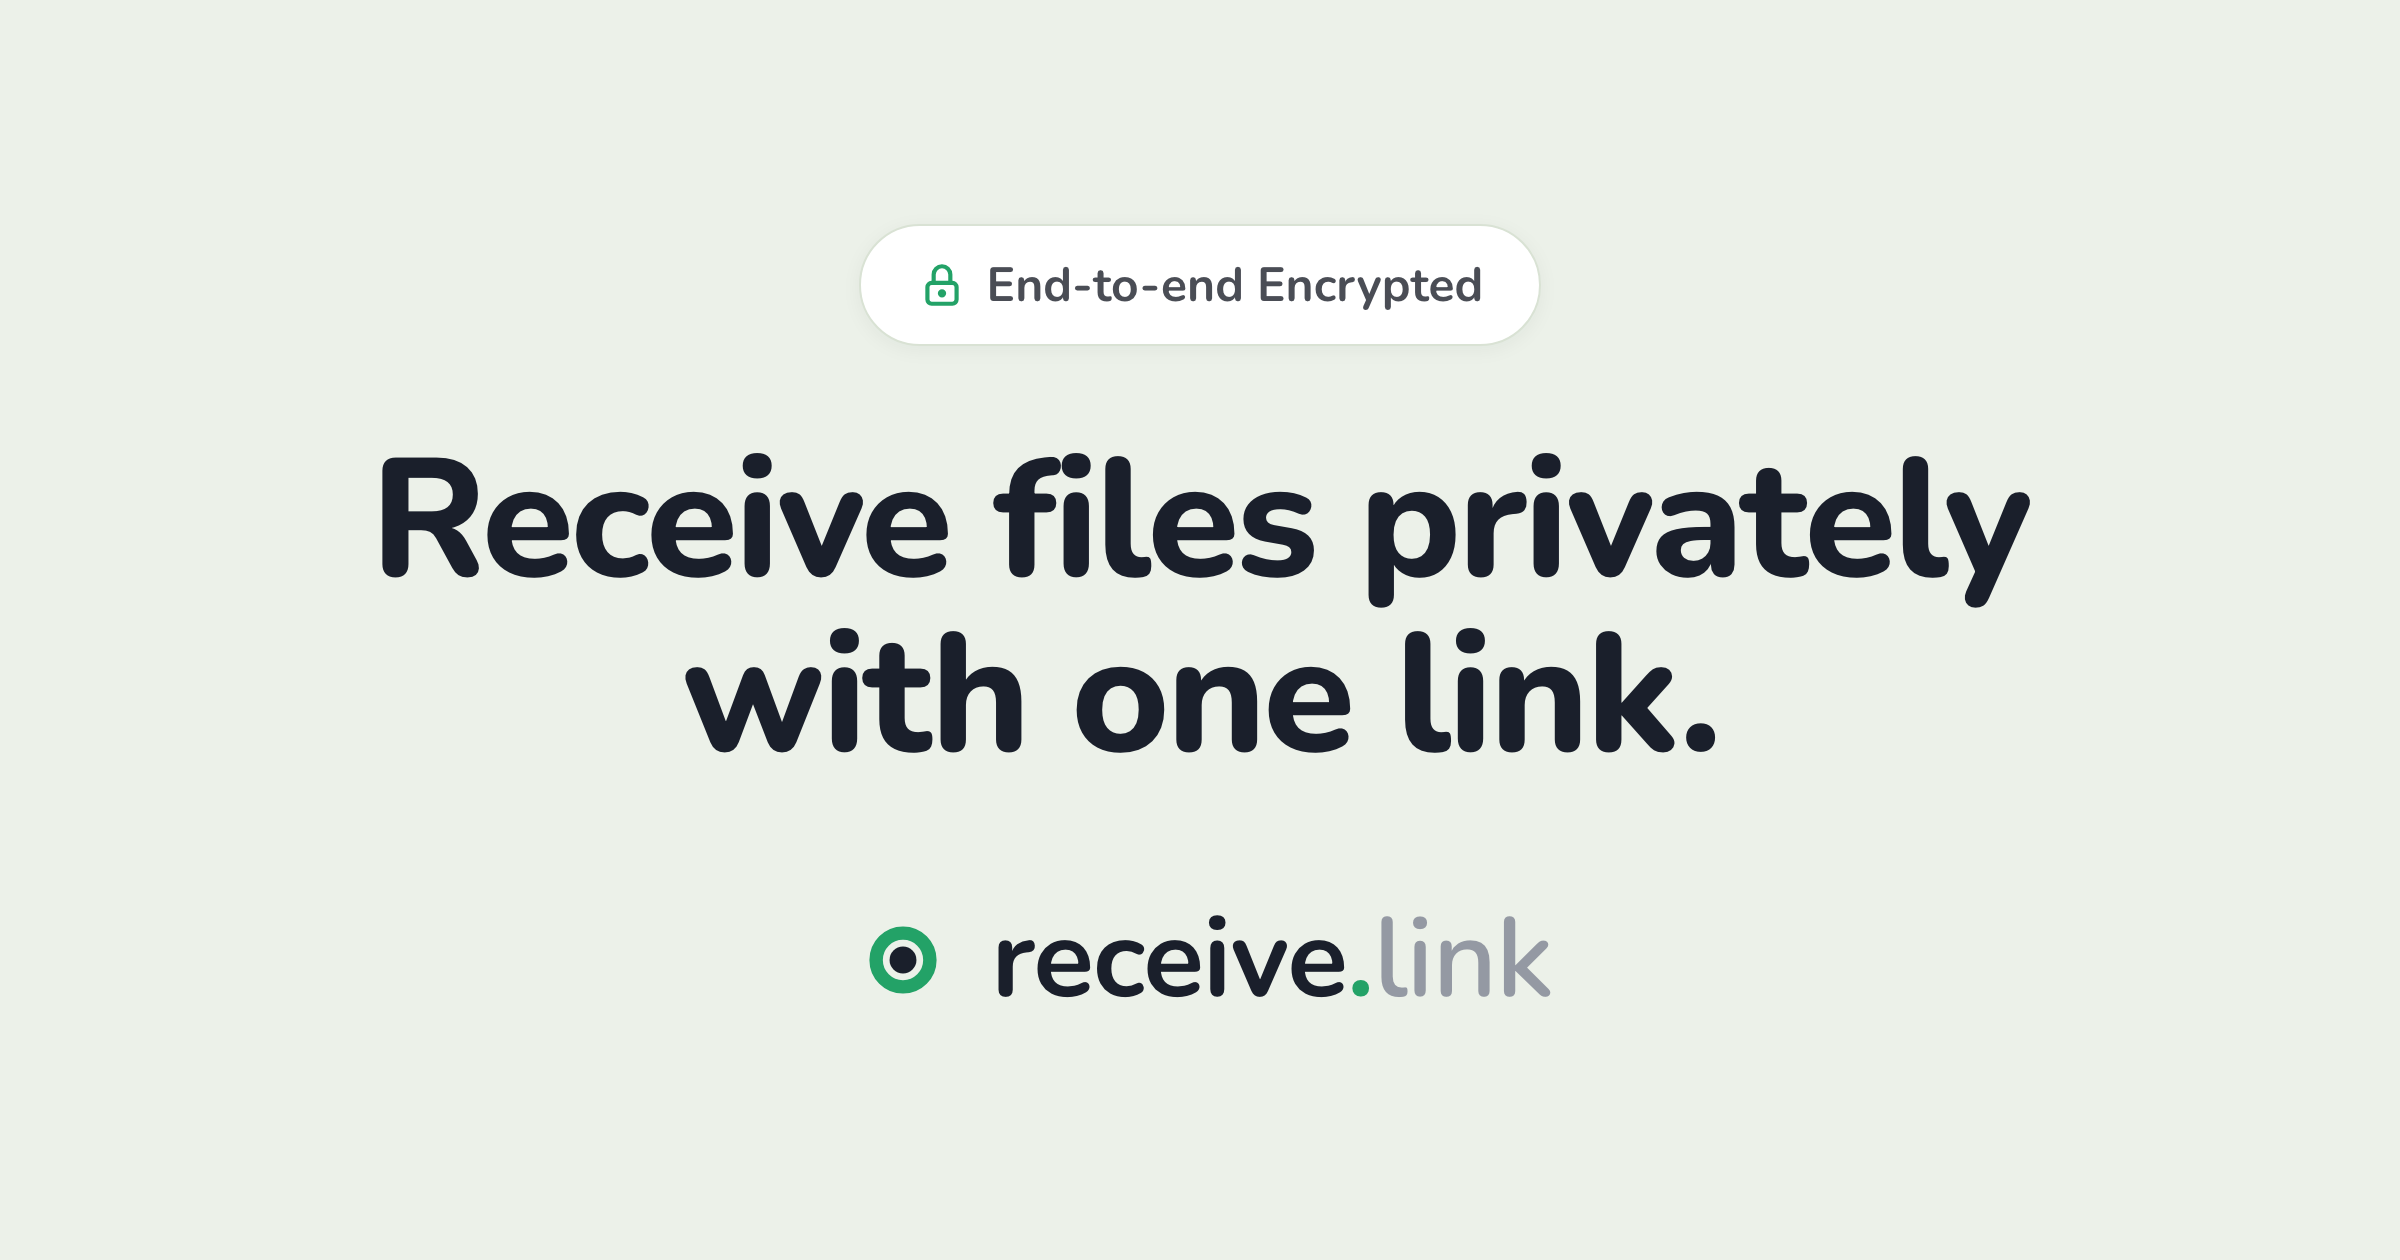
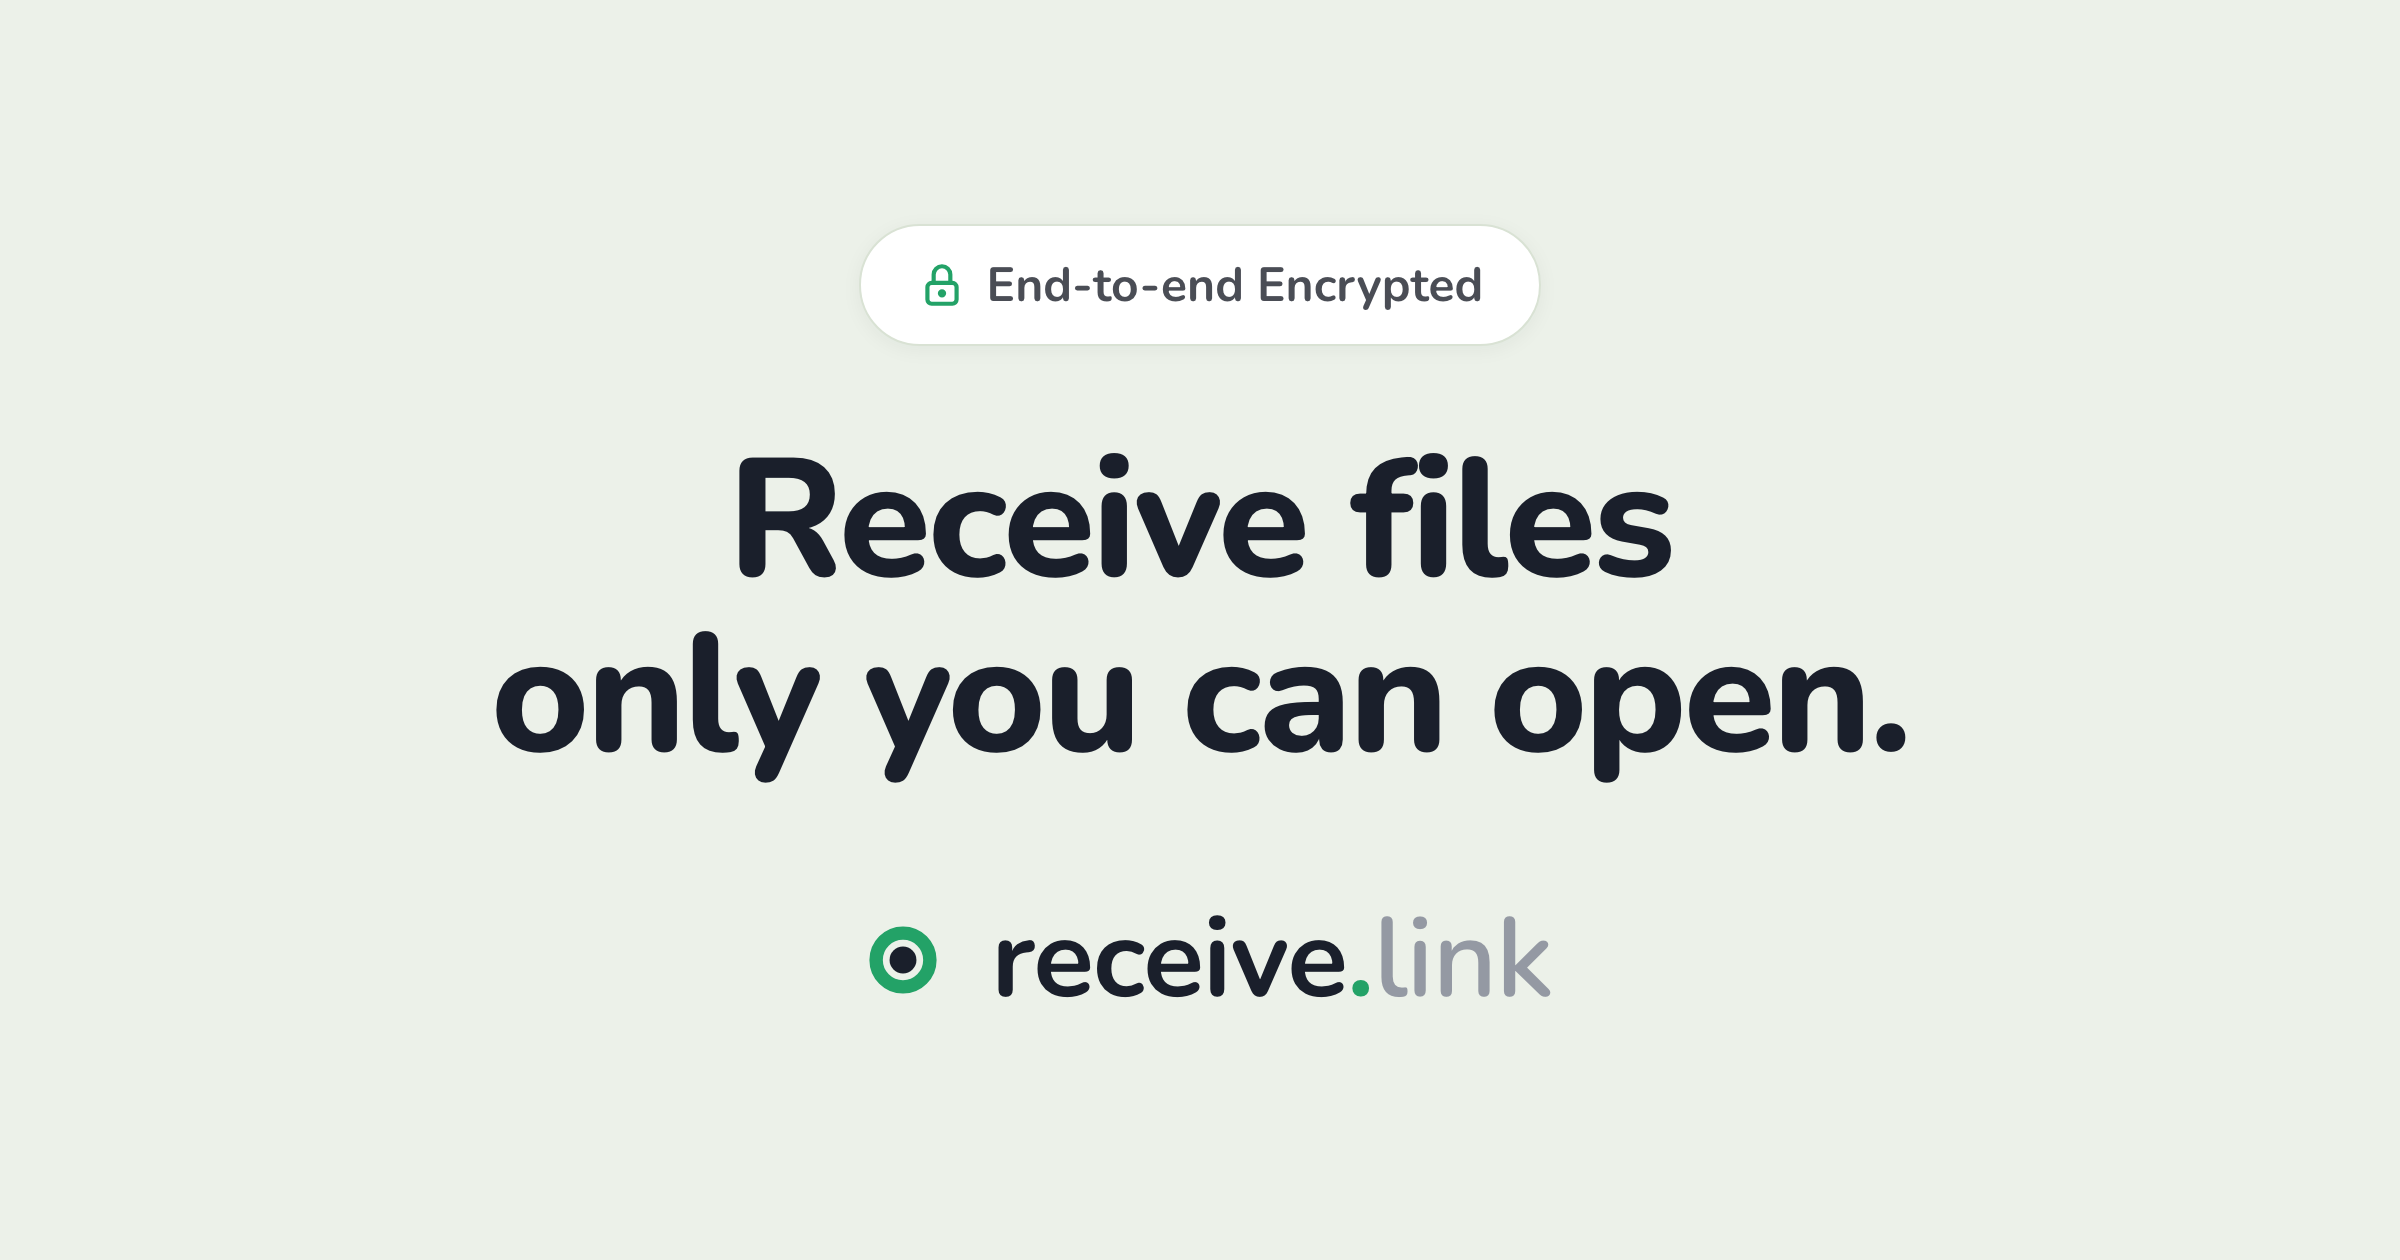
feat(home): headline "Receive files only you can open." + matching og card
The hero and the homepage share-card image now both carry the og:title line
(the metas already said it). og-card-send.html / og-send.png (the sender-
facing share-link card) untouched.

Changed region(s): [[0.1562, 0.3405, 0.8438, 0.619]]

diff --git a/web/home/index.html b/web/home/index.html
@@ -276,7 +276,7 @@ body.cmlock{overflow:hidden}
 
   <div class="hero">
     <div class="kicks"><span class="kick"><svg class="ti" viewBox="0 0 24 24" fill="none" stroke="currentColor" stroke-width="2" stroke-linecap="round" stroke-linejoin="round" aria-hidden="true"><path d="M5 13a2 2 0 0 1 2 -2h10a2 2 0 0 1 2 2v6a2 2 0 0 1 -2 2h-10a2 2 0 0 1 -2 -2v-6z" /> <path d="M11 16a1 1 0 1 0 2 0a1 1 0 0 0 -2 0" /> <path d="M8 11v-4a4 4 0 1 1 8 0v4" /></svg>End-to-end Encrypted</span></div>
-    <h1>Receive files privately<br>with one link.</h1>
+    <h1>Receive files<br>only you can open.</h1>
     <div class="sub">Anyone can send you files. Only you can open them. Encrypted to your passkey, no accounts.</div>
     <div class="hcta"><a class="pill" href="/" data-create>Create your link</a></div>
   </div>

diff --git a/web/og-card-v2.html b/web/og-card-v2.html
@@ -26,7 +26,7 @@ h1{font-family:'Nunito',system-ui,sans-serif;font-weight:800;font-size:84px;line
 <body>
   <div class="stack">
     <span class="pill"><svg viewBox="0 0 24 24" fill="none" stroke="currentColor" stroke-width="2" stroke-linecap="round" stroke-linejoin="round"><path d="M5 13a2 2 0 0 1 2 -2h10a2 2 0 0 1 2 2v6a2 2 0 0 1 -2 2h-10a2 2 0 0 1 -2 -2v-6z"/><path d="M11 16a1 1 0 1 0 2 0a1 1 0 0 0 -2 0"/><path d="M8 11v-4a4 4 0 1 1 8 0v4"/></svg>End-to-end Encrypted</span>
-    <h1>Receive files privately<br>with one link.</h1>
+    <h1>Receive files<br>only you can open.</h1>
     <div class="logo"><svg viewBox="0 0 100 100"><circle cx="50" cy="50" r="24" fill="none" stroke="#23A267" stroke-width="12"/><circle cx="50" cy="50" r="12" fill="#1A1F2B"/></svg><span>receive<span class="dotp">.</span><span class="tld">link</span></span></div>
   </div>
   <script>(async()=>{try{await document.fonts.ready}catch(e){}document.documentElement.setAttribute('data-fitted','1')})();</script>